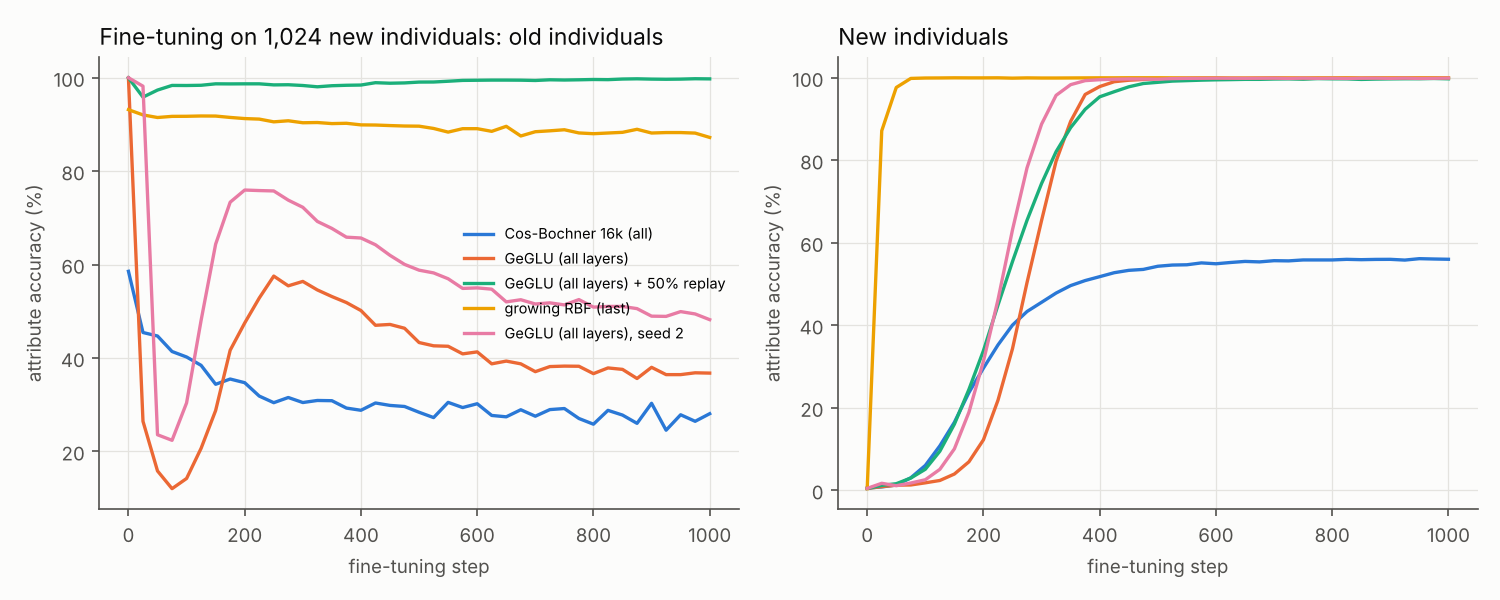
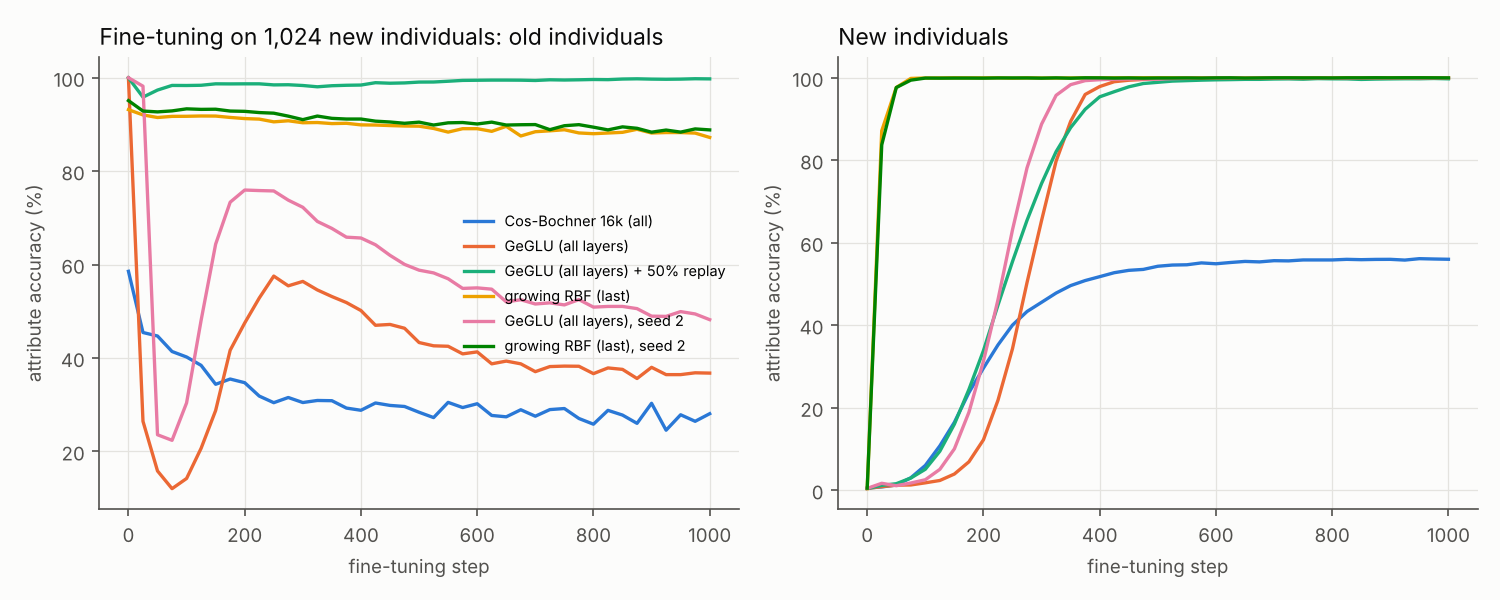
Figures: Muon against AdamW for the biography task (bios_muon.png), Muon and mechanism runs kept out of the AdamW figures, fine-tuning figure with the second growing-RBF seed, full-scale Fig. 5 to epoch 100
Claude-Session: https://claude.ai/code/session_01RLNGfWX7myMbpBLDNmpMEp

Changed region(s): [[0.3067, 0.36, 0.4907, 0.6], [0.092, 0.18, 0.4907, 0.24], [0.5827, 0.12, 0.9813, 0.15]]

diff --git a/experiments/plots.py b/experiments/plots.py
@@ -424,8 +424,12 @@ def _bios_label(name):
   return label + (f", seed {name.split('seed')[1]}" if 'seed' in name else '')
 
 
+MUON_RUNS = ('F_', 'G_', 'H_')    # section 7.5c: Muon, kernel width and mechanism runs (own figure)
+
+
 def fig_bios(bios, out):
   """Attribute loss and accuracy against steps at N = 8,192 for every FFN variant; plateau against N."""
+  bios = {k: r for k, r in bios.items() if not k.startswith(MUON_RUNS)}   # Muon and mechanism runs: fig_bios_muon
   n8 = {k: r for k, r in bios.items() if r['cfg']['n_people'] == 8192 and 'replay' not in k and 'seed' not in k
         and not k.startswith('E_')}          # E_*: diagnostic reruns (seen-template evaluation), shown in the text
   if not n8:
@@ -520,6 +524,58 @@ def fig_fig5_full(roots, out):
   plt.close(fig)
 
 
+def fig_bios_muon(bios, out):
+  """Section 7.5c: pre-training and fine-tuning with AdamW against Muon (colour = FFN, line style = optimizer), and the
+  fine-tuning branches of runs H (same pre-trained state; table writes only when every weight is frozen)."""
+  need = ['C_geglu_N8k', 'C_rbf_T2_N8k', 'G_geglu_muon_ft', 'G_cos_all_D4k_muon_ft', 'G_rbf_T2_muon_ft',
+          'H_rbf_T2_adamw_mech', 'H_rbf_T2_muon_mech']
+  if any(k not in bios for k in need):
+    return
+  col = {'geglu': SERIES[0], 'rbf': SERIES[1], 'cos': SERIES[2]}
+  runs = [('C_geglu_N8k', 'geglu', '--', 'GeGLU, AdamW'), ('C_rbf_T2_N8k', 'rbf', '--', 'growing RBF (last), AdamW'),
+          ('F_cos_all_D4k_T2', 'cos', '--', 'Cos-Bochner 4k (T = 2), AdamW'),
+          ('G_geglu_muon_ft', 'geglu', '-', 'GeGLU, Muon'), ('G_rbf_T2_muon_ft', 'rbf', '-', 'growing RBF (last), Muon'),
+          ('G_cos_all_D4k_muon_ft', 'cos', '-', 'Cos-Bochner 4k, Muon')]
+  fig, axes = new_fig(15.0, 4.6, ncols=3)
+  for k, kind, ls, lab in runs:
+    if k not in bios:
+      continue
+    r = bios[k]
+    T = r['cfg']['steps']
+    pre = [e for e in r['log'] if e['step'] <= 3000]
+    axes[0].plot([e['step'] for e in pre], [100 * e['attr_acc'] for e in pre], ls, color=col[kind], linewidth=1.6, label=lab)
+    post = [e for e in r['log'] if e['step'] >= T]
+    if r['cfg'].get('finetune_people') and post:
+      axes[1].plot([e['step'] - T for e in post], [100 * e['attr_acc'] for e in post], ls, color=col[kind], linewidth=1.6,
+                   label=lab)
+  style(axes[0], 'Pre-training, N = 8,192 (held-out frames)', 'step', 'attribute accuracy (%)')
+  axes[0].legend(fontsize=7, frameon=False, loc='lower right')
+  style(axes[1], 'Fine-tuning on 1,024 new individuals: old facts', 'fine-tuning step', 'attribute accuracy (%)')
+  branches = [('H_rbf_T2_adamw_mech', 'adamw', SERIES[1], '--', 'AdamW pre-training, AdamW fine-tuning'),
+              ('H_rbf_T2_adamw_mech', 'frozen', SERIES[4], '--', 'AdamW pre-training, weights frozen'),
+              ('H_rbf_T2_muon_mech', 'muon', SERIES[1], '-', 'Muon pre-training, Muon fine-tuning'),
+              ('H_rbf_T2_muon_mech', 'adamw', SERIES[3], '-', 'Muon pre-training, AdamW fine-tuning'),
+              ('H_rbf_T2_muon_mech', 'frozen', SERIES[4], '-', 'Muon pre-training, weights frozen')]
+  for k, b, c, ls, lab in branches:
+    v = bios[k].get('finetune_variants', {}).get(b)
+    if not v:
+      continue
+    T = bios[k]['cfg']['steps']
+    axes[2].plot([e['step'] - T for e in v['log']], [100 * e['attr_acc'] for e in v['log']], ls, color=c, linewidth=1.6,
+                 label=lab)
+  for k, ls in (('H_rbf_T2_adamw_mech', '--'), ('H_rbf_T2_muon_mech', '-')):   # table read off, end of pre-training
+    v = next(iter(bios[k].get('finetune_variants', {}).values()), None)
+    if v and 'no_table_attr_acc' in v['log'][0]:
+      axes[2].plot([0], [100 * v['log'][0]['no_table_attr_acc']], 'o', color=INK2, markersize=6, fillstyle='none' if ls == '--' else 'full')
+  axes[2].plot([], [], 'o', color=INK2, markersize=6, label='table read off at step 0 (filled: Muon, open: AdamW)')
+  style(axes[2], 'Growing RBF: fine-tuning branches from one state (runs H)', 'fine-tuning step', 'old-fact accuracy (%)')
+  axes[2].set_ylim(10, 101)
+  axes[2].legend(fontsize=7, frameon=False, loc='lower right')
+  fig.tight_layout()
+  fig.savefig(os.path.join(out, 'bios_muon.png'), dpi=150, facecolor=SURFACE)
+  plt.close(fig)
+
+
 def main():
   p = argparse.ArgumentParser()
   p.add_argument('--results', nargs='*', default=['results/colab_a100', 'results/colab_l4b', 'results/cpu_overfit',
@@ -556,7 +612,9 @@ def main():
   fig_overfit(runs, args.out)
   fig_fig5_scaled(runs, args.out)
   fig_fig5_full(args.results, args.out)
-  fig_bios(load_bios(args.results), args.out)
+  bios = load_bios(args.results)
+  fig_bios(bios, args.out)
+  fig_bios_muon(bios, args.out)
   fig_deltanet(args.results, args.out)
   fig_facts(facts, args.out)
   fig_train_loss(args.results + ['results/hf', 'results/cpu_binary'], args.out)

diff --git a/docs/REPRODUCTION.md b/docs/REPRODUCTION.md
@@ -572,6 +572,8 @@ Findings:
 - The forgetting has a different shape. The growing layer declines smoothly. Cos-Bochner and GeGLU with Muon drop and recover early (Cos-Bochner 49.4% at step 50, 94.2% at step 100) and then decline. GeGLU with Muon never collapses as GeGLU with AdamW does (lowest 48.0%, against 12.0% and 22.4%).
 - So the article's statement that the RBF layer "seems to do better" in fine-tuning holds against AdamW-trained FFNs. Under Muon the growing layer forgets about as much as GeGLU (one seed each). Runs H below test why.
 
+Figure: `docs/figures/bios_muon.png` (pre-training and fine-tuning with AdamW against Muon; colour = FFN, line style = optimizer; right: the fine-tuning branches of runs H).
+
 **Why the growing layer forgets under Muon (runs H).** Two explanations fit runs G: (a) with Muon, the GeGLU layers below the table learn many of the facts during pre-training, and fine-tuning overwrites them; (b) the Muon fine-tuning steps move the layers below the table so far that the stored keys no longer match the queries of the old individuals. Runs H repeat the growing-layer runs (Muon: G; AdamW: seed 1 of §7.5b) and branch the fine-tuning from the same pre-trained state (`finetune_variants`): the original optimizer; every trained weight frozen (`finetune_lr` 0; only the table writes act); and, for the Muon run, a fresh AdamW at 3e-5 on every weight (`finetune_optimizer`). At the end of pre-training and of every branch they also measure the accuracy with the table read switched off (`eval_no_table`): the share of the facts that the other layers hold.
 
 Run H with Muon (pre-training repeats run G: plateau end, 50% and 90% steps 500 / 600 / 700, 98.3% at the end):
